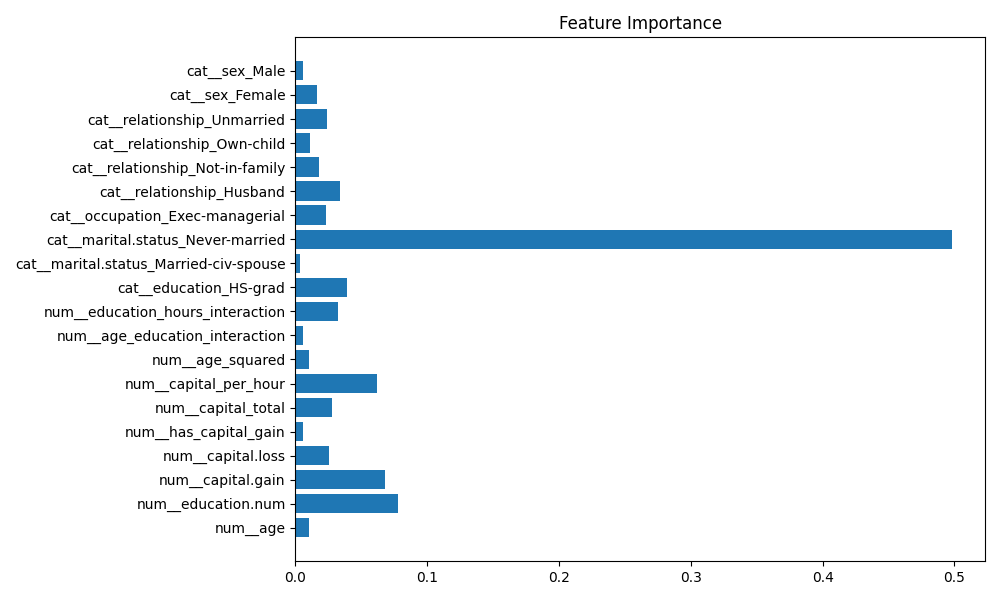
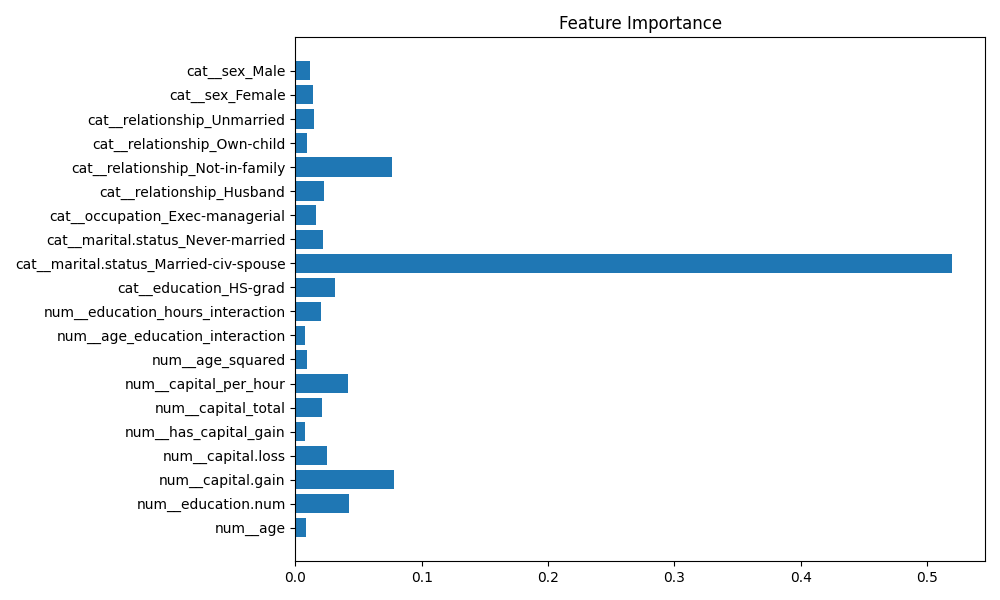
Enhance SHAP analysis and error visualization; add error magnitude heatmap and update feature importance plot

diff --git a/Week6/src/evaluation/shap_analysis.py b/Week6/src/evaluation/shap_analysis.py
@@ -1,21 +1,18 @@
 import os
 import joblib
 import shap
+import numpy as np
 import matplotlib.pyplot as plt
-
 from src.features.feature_selector import select_features
-
 BASE_DIR = os.path.abspath(os.path.join(os.path.dirname(__file__), ".."))
 MODEL_PATH = os.path.join(BASE_DIR, "models", "best_model.pkl")
 EVAL_DIR = os.path.join(BASE_DIR, "evaluation")
 os.makedirs(EVAL_DIR, exist_ok=True)
 
-
 def run_shap():
-    X_train, _, y_train, _, feature_names = select_features() #_ to ignore test set 
 
+    X_train, X_test, y_train, y_test, feature_names = select_features()
     model = joblib.load(MODEL_PATH)
-
     explainer = shap.Explainer(model)
     shap_values = explainer(X_train)
 
@@ -25,18 +22,45 @@ def run_shap():
         feature_names=feature_names,
         show=False
     )
+    plt.tight_layout()
     plt.savefig(os.path.join(EVAL_DIR, "shap_summary.png"))
     plt.close()
-    importance = model.feature_importances_
 
+    importance = model.feature_importances_
     plt.figure(figsize=(10, 6))
-    plt.barh(feature_names, importance) #horizontal bar plot for better readability
+    plt.barh(feature_names, importance)
     plt.title("Feature Importance")
-    plt.tight_layout()   #adjust layout to prevent label cutoff
+    plt.tight_layout()
     plt.savefig(os.path.join(EVAL_DIR, "feature_importance.png"))
     plt.close()
 
-    print("SHAP analysis completed.")
+
+    y_pred = model.predict(X_test)
+    errors = y_pred - y_test
+    abs_errors = np.abs(errors)
+
+    print("MAE:", abs_errors.mean())
+    print("Max error:", abs_errors.max())
+    print("Non-zero errors:", np.count_nonzero(abs_errors))
+    print("Total samples:", len(abs_errors))
+
+    plt.figure(figsize=(8, 6))
+    plt.hist2d(
+        y_test,
+        np.abs(y_pred - y_test),
+        bins=20,
+        cmap="magma"
+    )
+    
+    plt.colorbar(label="Number of Samples")
+    plt.xlabel("True Values")
+    plt.ylabel("Absolute Error")
+    plt.title("Error Magnitude Heatmap")
+    
+    plt.tight_layout()
+    plt.savefig(os.path.join(EVAL_DIR, "error_magnitude_heatmap.png"))
+    plt.close()
+
 
 
 if __name__ == "__main__":

diff --git a/Week6/MODEL-INTERPRETATION.md b/Week6/MODEL-INTERPRETATION.md
@@ -56,10 +56,16 @@ SHAP reveals that while education is important, capital gain, age-education
 interactions, and working hours also have strong and sometimes larger impacts on
 individual predictions.
 Therefore, SHAP-based interpretation was prioritized for explainability and error analysis.
+
+
 ### Feature Importance Plot
 ![Feature Importance](src/evaluation/feature_importance.png)
+
+
 ### SHAP Summary Plot
 ![SHAP Summary](src/evaluation/shap_summary.png)
+
+
 ## Error Analysis
 Error patterns were analyzed using confusion matrices and feature-level
 inspection.
@@ -68,6 +74,10 @@ The confusion matrix indicates that the model performs strongly on the majority
 conservative in predicting high income, resulting in fewer false positives but
 a moderate number of false negatives. This behavior is consistent with the
 observed precision–recall trade-off and aligns with SHAP-based feature analysis.
+
+![Error Analysis](src/evaluation/error_magnitude_heatmap.png)
+
+
 ### Confusion Matrix (Baseline Model)
 ![Confusion Matrix](src/evaluation/confusion_matrix.png)
 
